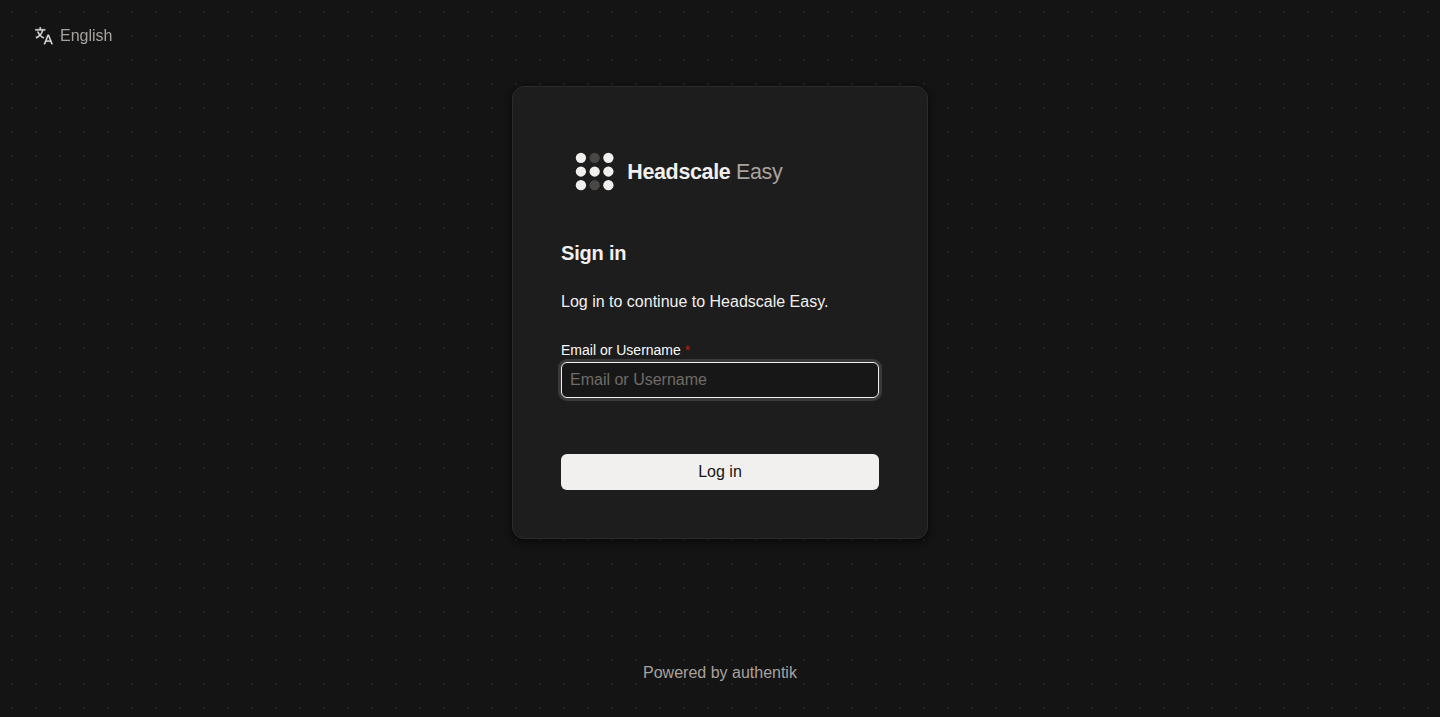
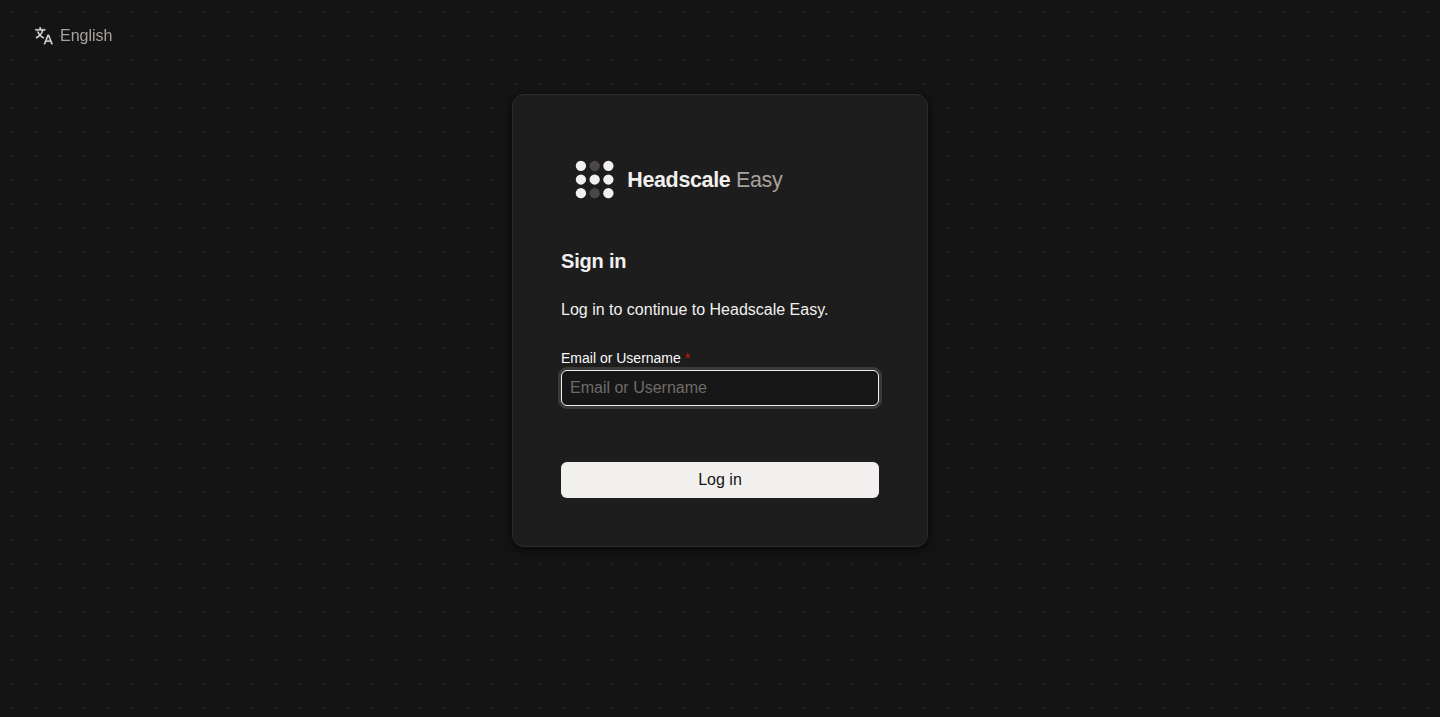
fix(authentik): hide "Powered by authentik" on the login page
Authentik has no setting for it: two CSS rules in the theme hide the
footer text inside the ak-brand-links web component, in both themes.
Footer links configured in Authentik's System → Settings still show.

Also refreshes the sign-in screenshot used by the documentation.

diff --git a/authentik/branding/custom.css b/authentik/branding/custom.css
@@ -190,3 +190,12 @@ ak-locale-select {
     color: var(--hs-muted) !important;
     filter: none !important;
 }
+
+/* Hide the "Powered by authentik" footer text (footer links set in Authentik's
+   System → Settings still show). Inside the ak-brand-links web component. */
+li[data-kind="text"][data-track-name="start"] {
+    display: none !important;
+}
+ul[aria-label="Site links"][data-count="1"]:has(> li[data-kind="text"]) {
+    display: none !important;
+}
